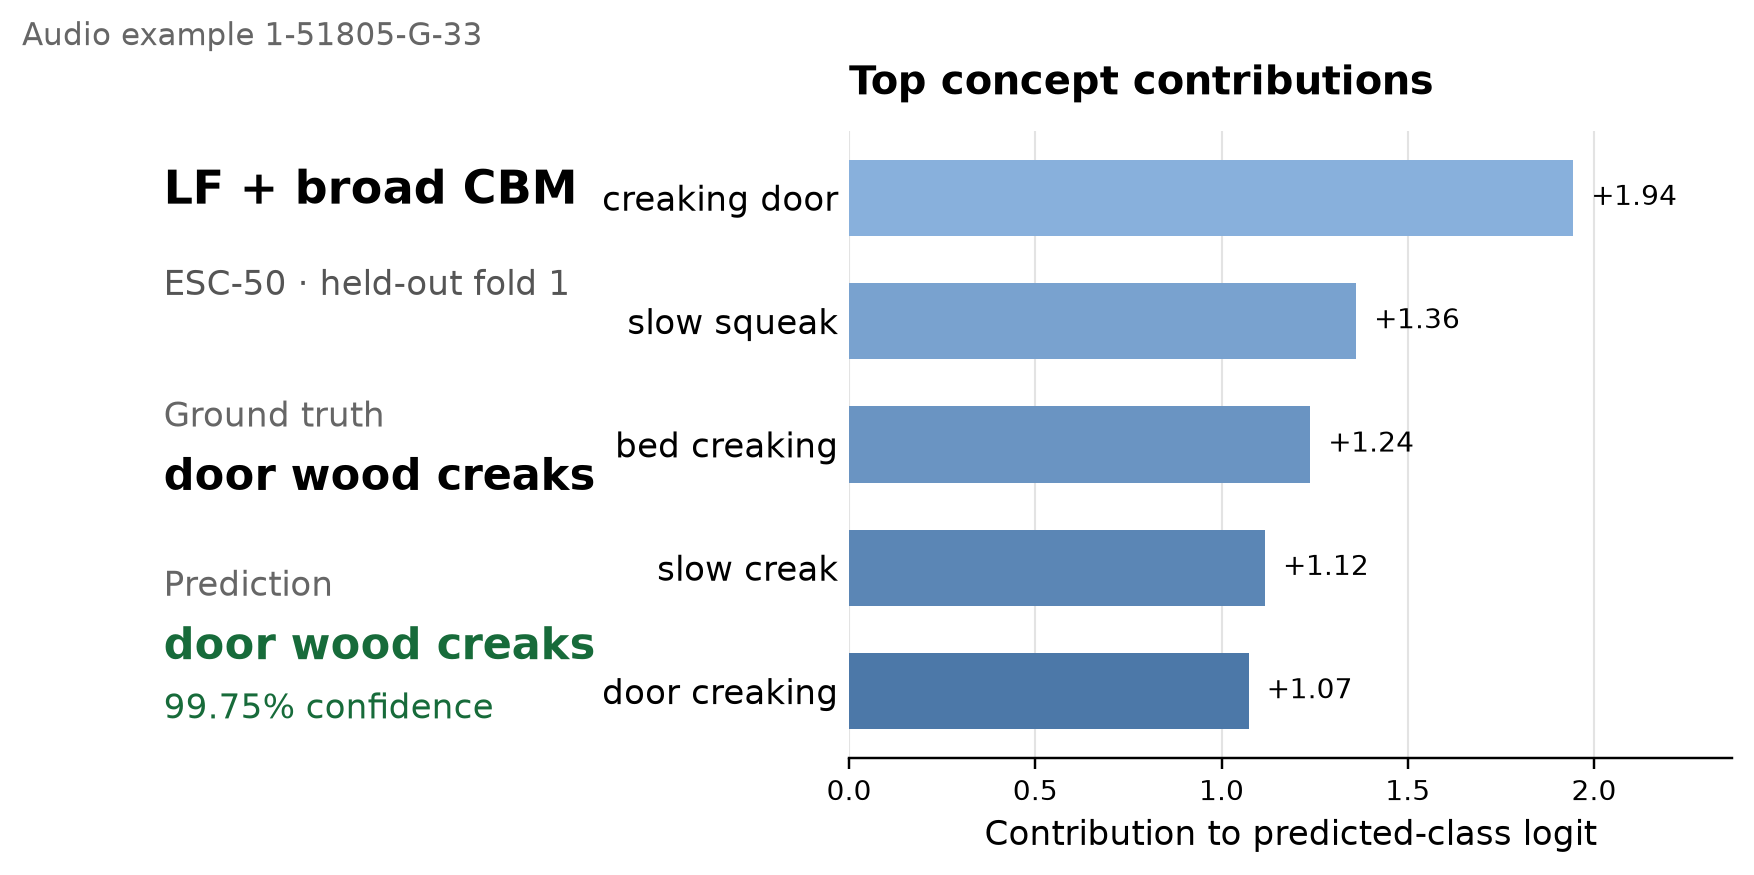
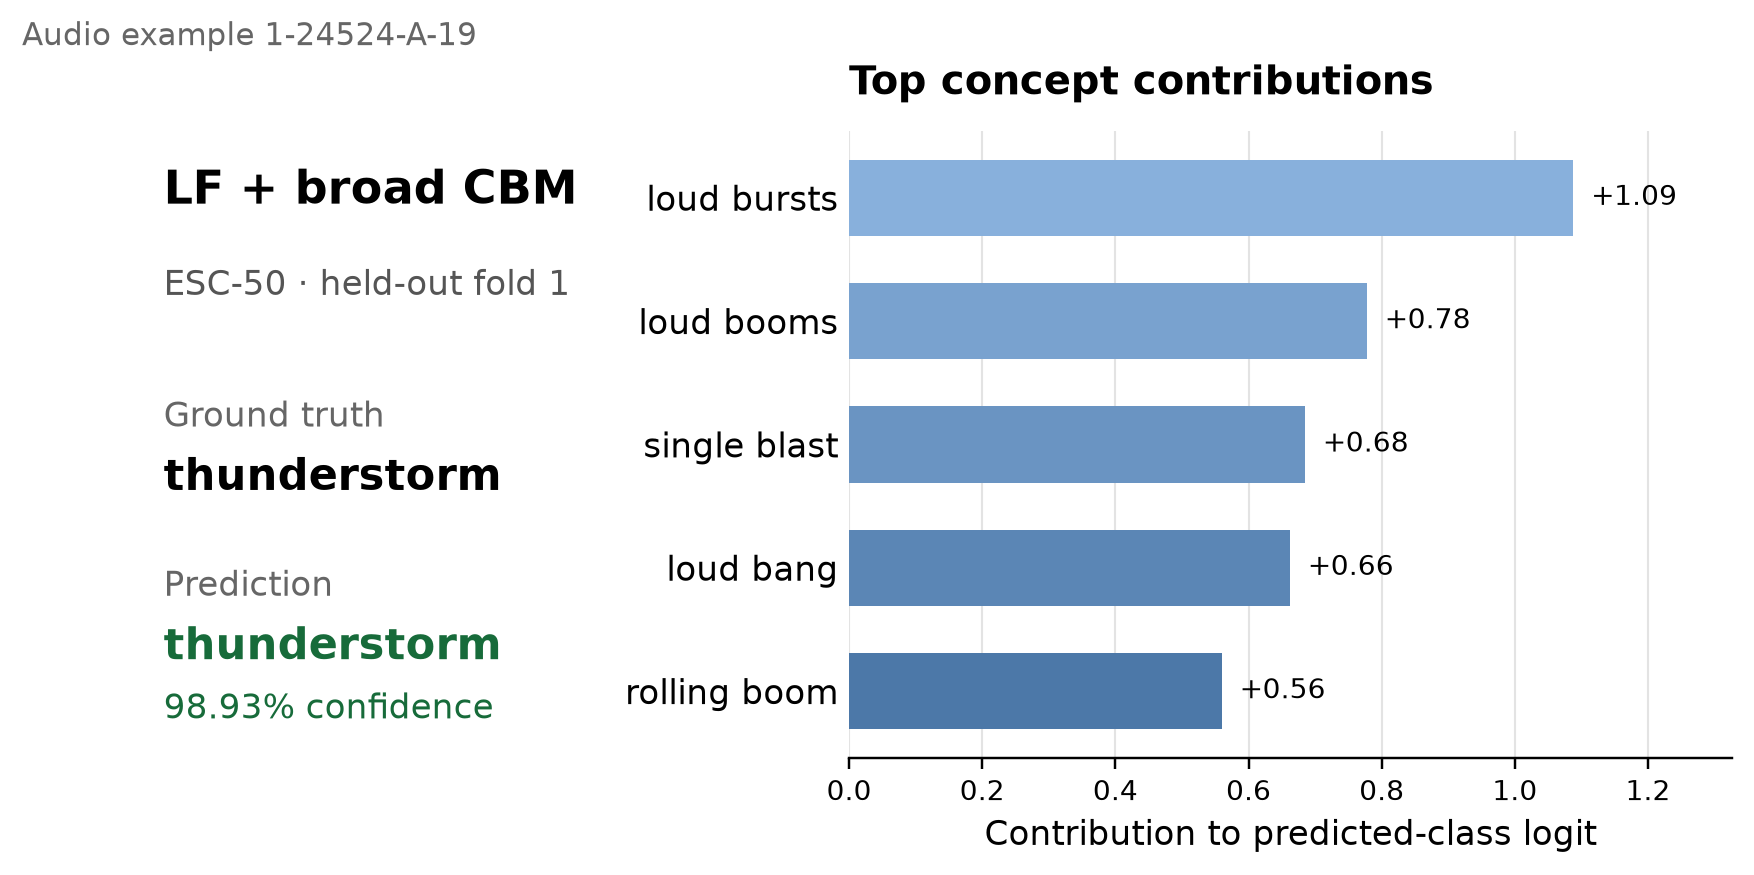
docs: use non-leaking audio prediction example

diff --git a/scripts/visualization/build_readme_prediction_figure.py b/scripts/visualization/build_readme_prediction_figure.py
@@ -17,7 +17,7 @@ DEFAULT_OUTPUT = ROOT / "docs/assets/images/esc50_prediction_example.png"
 
 def parse_args() -> argparse.Namespace:
     parser = argparse.ArgumentParser(description=__doc__)
-    parser.add_argument("--sample-id", default="1-51805-G-33")
+    parser.add_argument("--sample-id", default="1-24524-A-19")
     parser.add_argument("--data", type=Path, default=DEFAULT_DATA)
     parser.add_argument("--output", type=Path, default=DEFAULT_OUTPUT)
     parser.add_argument("--dpi", type=int, default=220)

diff --git a/README.md b/README.md
@@ -40,12 +40,12 @@ The LLM only proposes candidates. The existing LF-CBM filters, CLAP grounding on
 The [GitHub Pages explorer](https://adam-ousse.github.io/Label-free-CBM-Audio/) uses the ESC-50 **LF + broad** model. It contains correct and incorrect held-out examples, audio playback, top-five concept interventions, and segmented temporal explanations. Everything runs locally in the browser; no inference server is required.
 
 <p align="center">
-  <a href="docs/assets/audio/1-51805-G-33.wav"><strong>▶ Listen to ESC-50 clip 1-51805-G-33</strong></a>
+  <a href="https://adam-ousse.github.io/Label-free-CBM-Audio/assets/audio/1-24524-A-19.wav"><strong>▶ Listen to 5-second ESC-50 audio clip</strong></a>
 </p>
 <p align="center">
-  <img src="docs/assets/images/esc50_prediction_example.png" width="860" alt="Correct ESC-50 LF plus broad prediction and its top five concept contributions">
+  <img src="docs/assets/images/esc50_prediction_example.png" width="860" alt="Correct thunderstorm prediction and its top five non-leaking acoustic concept contributions">
 </p>
-<p align="center"><em>The LF + broad CBM correctly predicts “door wood creaks” with 99.75% confidence; the bars show its five largest concept contributions.</em></p>
+<p align="center"><em>The LF + broad CBM correctly predicts “thunderstorm” with 98.93% confidence from general acoustic evidence rather than concepts containing the class name.</em></p>
 
 ## Main results
 
